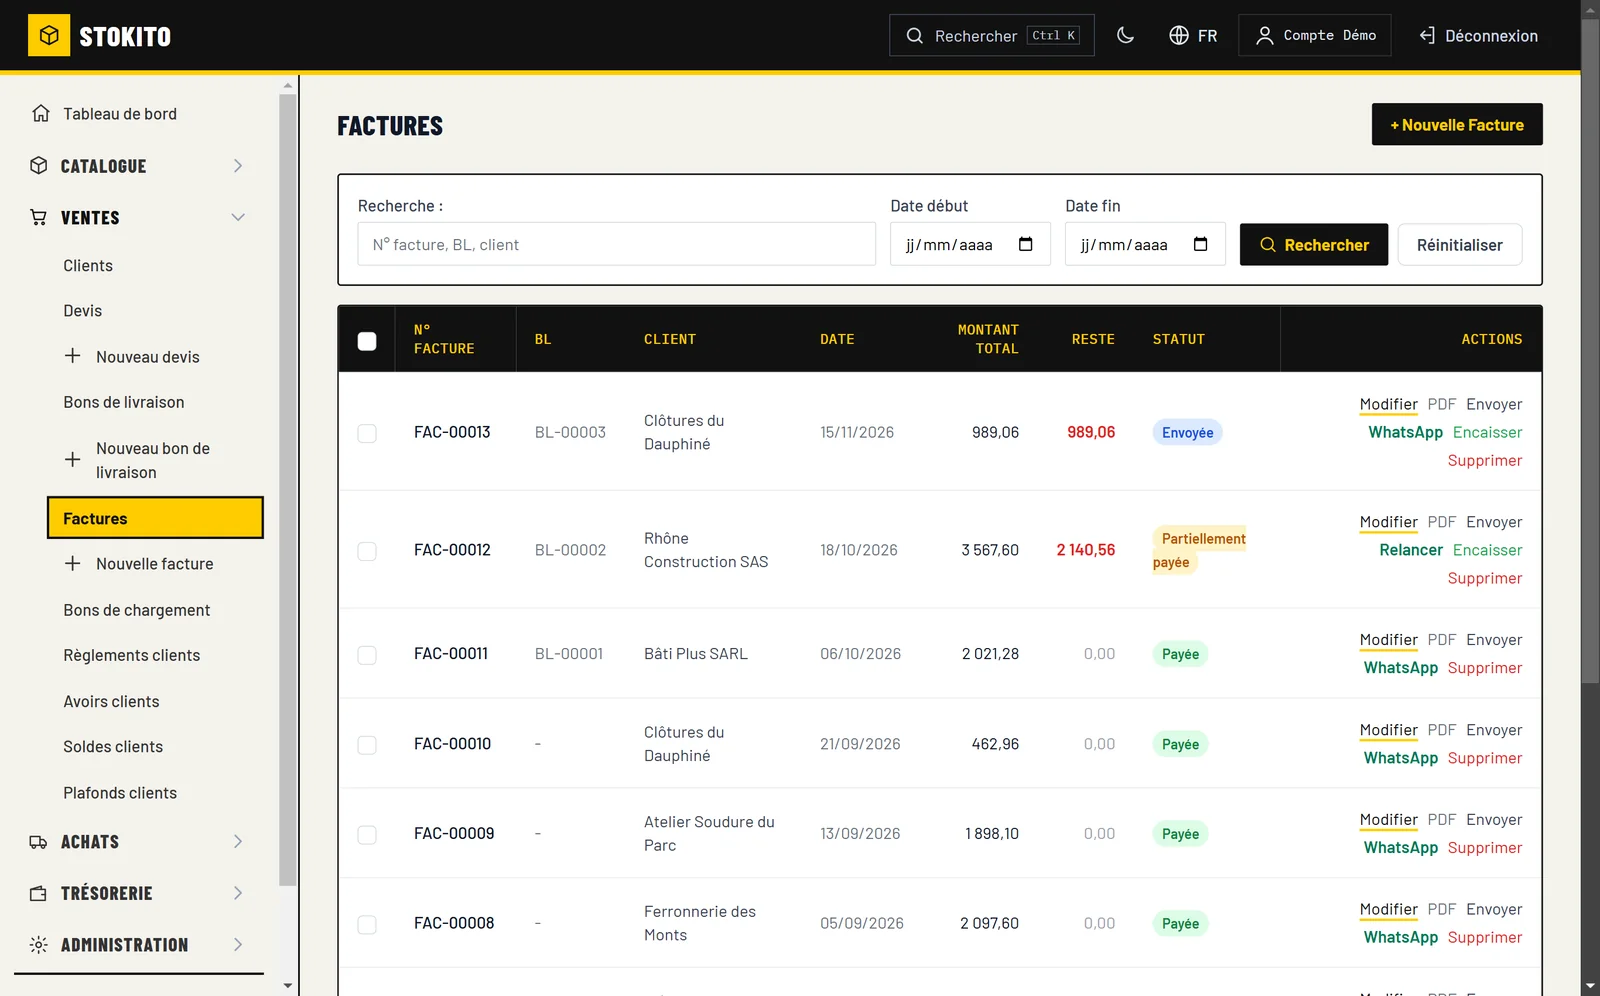
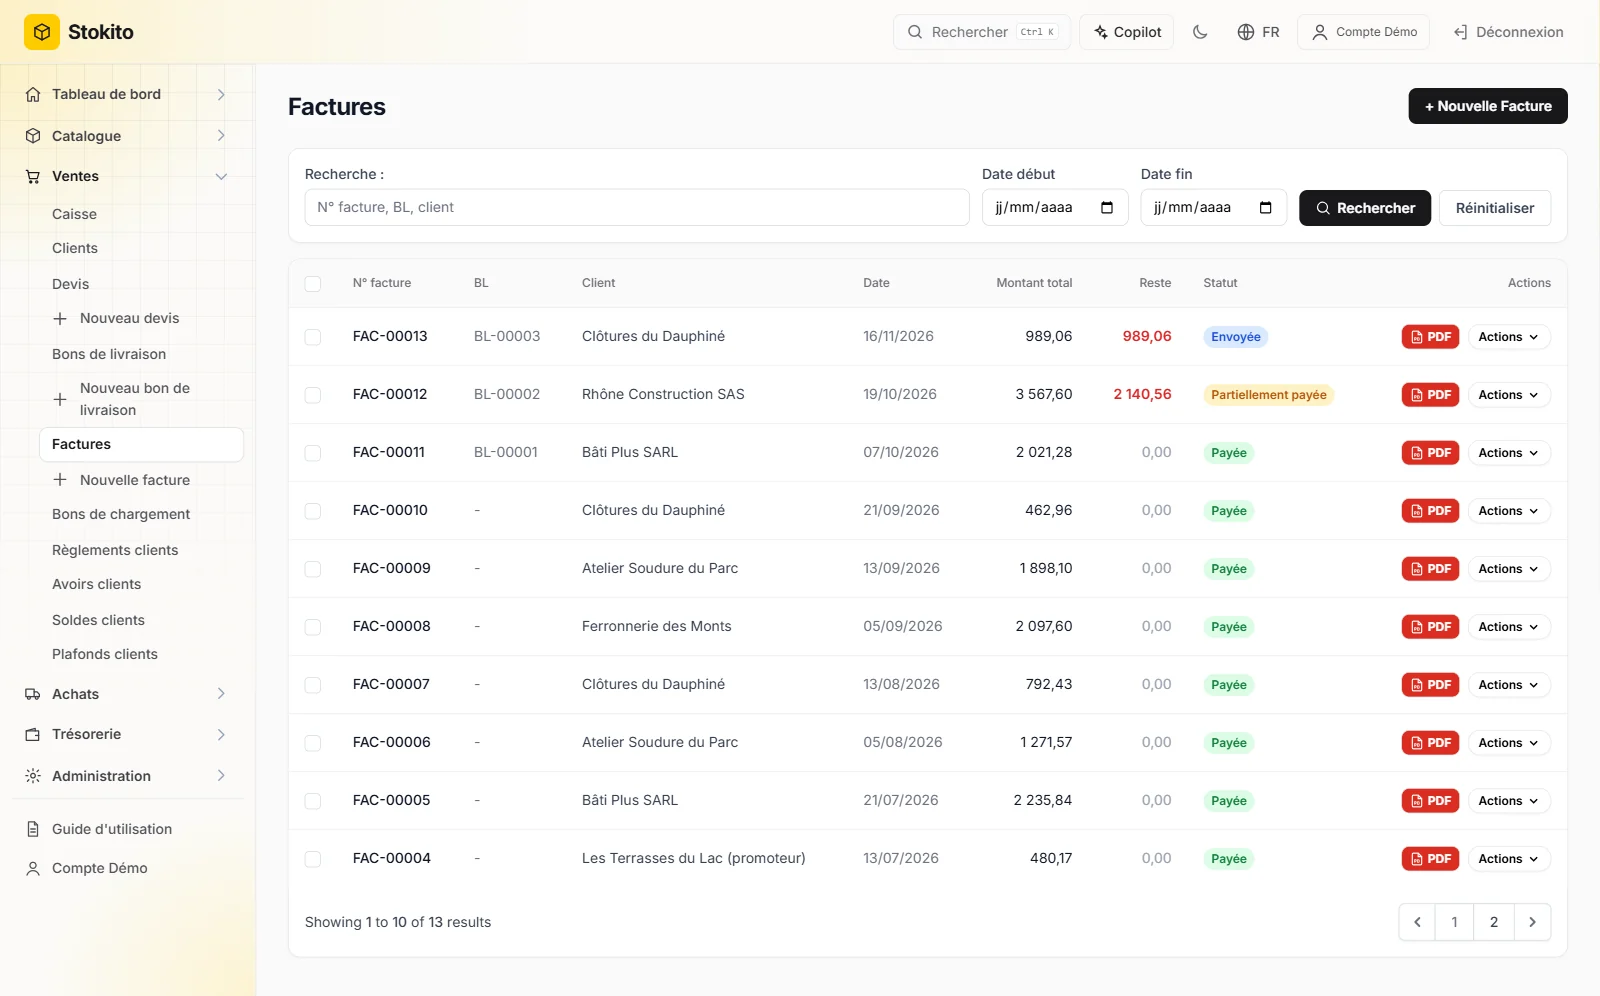
Nouvelles captures du nouveau design (pages SEO + og:image) ; caisse/inscriptions : en-tetes de tableau clairs
Anciennes captures : /root/sp-backups/screens_pre_modern

diff --git a/resources/views/livewire/caisse/clotures.blade.php b/resources/views/livewire/caisse/clotures.blade.php
@@ -34,12 +34,12 @@
 
     <div class="flex mb-3" role="tablist">
         @foreach (['jour' => 'Jours', 'mois' => 'Mois', 'annee' => 'Années'] as $k => $l)
-            <button type="button" wire:click="$set('type', '{{ $k }}')" class="ind-h uppercase tracking-wider px-4 py-1.5 border border-zinc-200 -me-0.5 {{ $type === $k ? 'bg-zinc-900 text-amber-300' : 'bg-white' }} rounded-lg">{{ $l }}</button>
+            <button type="button" wire:click="$set('type', '{{ $k }}')" class="px-4 py-1.5 text-sm font-semibold border border-zinc-200 -me-0.5 {{ $type === $k ? 'bg-zinc-900 text-white border-zinc-900' : 'bg-white text-zinc-700' }} rounded-lg">{{ $l }}</button>
         @endforeach
     </div>
     <div class="border border-zinc-200 bg-white overflow-x-auto rounded-lg">
         <table class="min-w-full text-sm">
-            <thead class="bg-zinc-900 text-white ind-mono text-[11px]">
+            <thead class="bg-zinc-50 text-zinc-500 text-xs font-medium border-b border-zinc-200">
                 <tr><th class="px-3 py-2 text-start">Z N°</th><th class="px-3 py-2 text-start">Période</th><th class="px-3 py-2 text-start">Tickets</th><th class="px-3 py-2 text-end">Total TTC</th><th class="px-3 py-2 text-end">Grand total perpétuel</th><th class="px-3 py-2"></th></tr>
             </thead>
             <tbody class="divide-y divide-[#e3e0d8]">
@@ -52,7 +52,7 @@
                         <td class="px-3 py-2.5 text-end ind-mono">{{ $money($c->cumul_ttc) }}</td>
                         <td class="px-3 py-2.5 text-end whitespace-nowrap"><div class="inline-flex gap-2">
                             <a href="{{ route('caisse.clotures.print', $c->id) }}" target="_blank" class="border border-zinc-200 bg-white px-2 py-1 text-xs font-semibold hover:bg-zinc-100 rounded-lg">Imprimer</a>
-                            <a href="{{ route('caisse.clotures.archive', $c->id) }}" class="bg-zinc-900 text-white px-2 py-1 text-xs font-semibold" title="Archive signée (ZIP) : tickets, lignes, paiements, clôtures et journal de la période">Archive</a>
+                            <a href="{{ route('caisse.clotures.archive', $c->id) }}" class="bg-zinc-900 text-white px-2.5 py-1 text-xs font-semibold rounded-lg" title="Archive signée (ZIP) : tickets, lignes, paiements, clôtures et journal de la période">Archive</a>
                         </div></td>
                     </tr>
                 @empty
@@ -68,7 +68,7 @@
             <div class="ind-mono text-[11px] text-zinc-500">ARCHIVES</div>
             <p class="mt-1 text-sm text-zinc-600">Le bouton <b>Archive</b> d’une clôture télécharge un ZIP signé : tickets, lignes, paiements, clôtures et journal de la période, en CSV, avec l’empreinte de chaque fichier. Gardez les archives mensuelles et annuelles (au moins 6 ans).</p>
             <label class="mt-3 block text-sm font-semibold">Vérifier une archive
-                <input type="file" wire:model="archiveFile" accept=".zip" class="mt-1 block w-full text-sm file:me-3 file:border-2 file:border-[#111] file:bg-white file:px-3 file:py-1.5 file:text-sm file:font-semibold"></label>
+                <input type="file" wire:model="archiveFile" accept=".zip" class="mt-1 block w-full text-sm file:me-3 file:border file:border-zinc-300 file:rounded-lg file:bg-white file:px-3 file:py-1.5 file:text-sm file:font-semibold"></label>
             <div wire:loading wire:target="archiveFile" class="mt-2 text-sm">Vérification…</div>
             @error('archiveFile') <p class="mt-2 text-sm text-[#b42318] font-semibold">{{ $message }}</p> @enderror
             @if ($archiveCheck)

diff --git a/resources/views/livewire/depenses/index.blade.php b/resources/views/livewire/depenses/index.blade.php
@@ -19,15 +19,15 @@
 
     <div class="grid grid-cols-1 sm:grid-cols-3 gap-3 mb-4">
         <div class="bg-white rounded-xl border border-slate-200 p-4">
-            <div class="text-xs font-semibold uppercase text-slate-500">Total TTC</div>
+            <div class="text-xs font-semibold text-slate-500">Total TTC</div>
             <div class="mt-1 text-2xl font-bold text-slate-900">{{ $money($totTtc) }} <span class="text-sm font-medium text-slate-400">{{ $currency }}</span></div>
         </div>
         <div class="bg-white rounded-xl border border-slate-200 p-4">
-            <div class="text-xs font-semibold uppercase text-slate-500">Dont TVA</div>
+            <div class="text-xs font-semibold text-slate-500">Dont TVA</div>
             <div class="mt-1 text-2xl font-bold text-slate-900">{{ $money($totTva) }} <span class="text-sm font-medium text-slate-400">{{ $currency }}</span></div>
         </div>
         <div class="bg-white rounded-xl border border-slate-200 p-4">
-            <div class="text-xs font-semibold uppercase text-slate-500">Par catégorie</div>
+            <div class="text-xs font-semibold text-slate-500">Par catégorie</div>
             <div class="mt-1 space-y-0.5 text-sm">
                 @forelse ($parCategorie->take(4) as $c)
                     <div class="flex justify-between gap-2"><span class="truncate text-slate-600">{{ \App\Models\Depense::CATEGORIES[$c->categorie] ?? $c->categorie }}</span><span class="font-semibold text-slate-900 whitespace-nowrap">{{ $money($c->total) }}</span></div>
@@ -58,12 +58,12 @@
             <table class="min-w-full divide-y divide-slate-100">
                 <thead class="bg-slate-50">
                     <tr>
-                        <th class="px-4 py-3 text-start text-xs font-semibold text-slate-500 uppercase">Date</th>
-                        <th class="px-4 py-3 text-start text-xs font-semibold text-slate-500 uppercase">Libellé</th>
-                        <th class="px-4 py-3 text-start text-xs font-semibold text-slate-500 uppercase">Catégorie</th>
-                        <th class="px-4 py-3 text-start text-xs font-semibold text-slate-500 uppercase">Paiement</th>
-                        <th class="px-4 py-3 text-end text-xs font-semibold text-slate-500 uppercase">TVA</th>
-                        <th class="px-4 py-3 text-end text-xs font-semibold text-slate-500 uppercase">TTC</th>
+                        <th class="px-4 py-3 text-start text-xs font-semibold text-slate-500">Date</th>
+                        <th class="px-4 py-3 text-start text-xs font-semibold text-slate-500">Libellé</th>
+                        <th class="px-4 py-3 text-start text-xs font-semibold text-slate-500">Catégorie</th>
+                        <th class="px-4 py-3 text-start text-xs font-semibold text-slate-500">Paiement</th>
+                        <th class="px-4 py-3 text-end text-xs font-semibold text-slate-500">TVA</th>
+                        <th class="px-4 py-3 text-end text-xs font-semibold text-slate-500">TTC</th>
                         <th class="px-4 py-3"></th>
                     </tr>
                 </thead>

diff --git a/resources/views/livewire/inscriptions/index.blade.php b/resources/views/livewire/inscriptions/index.blade.php
@@ -5,28 +5,28 @@
         $flags = \App\Support\Countries::ALL;
     @endphp
     <div>
-        <p class="ind-mono text-xs text-zinc-500 uppercase">Superadmin</p>
+        <p class="ind-mono text-xs text-zinc-500">Superadmin</p>
         <h1 class="ind-h text-4xl leading-none mt-1">Inscriptions</h1>
     </div>
 
     <div class="grid grid-cols-2 lg:grid-cols-4 gap-3 sm:gap-4">
         <div class="{{ $card }}">
-            <div class="ind-mono text-[11px] uppercase text-zinc-500">Sociétés inscrites</div>
+            <div class="ind-mono text-[11px] text-zinc-500">Sociétés inscrites</div>
             <div class="mt-2 ind-h text-4xl leading-none">{{ (int) $stats->total }}</div>
             <div class="mt-1 text-xs text-slate-500">{{ (int) $stats->self }} en libre-service</div>
         </div>
         <div class="{{ $card }}">
-            <div class="ind-mono text-[11px] uppercase text-zinc-500">Nouvelles</div>
+            <div class="ind-mono text-[11px] text-zinc-500">Nouvelles</div>
             <div class="mt-2 ind-h text-4xl leading-none">{{ (int) $stats->d7 }} <span class="text-sm font-medium text-slate-400">7 j</span></div>
             <div class="mt-1 text-xs text-slate-500">{{ (int) $stats->d30 }} sur 30 jours</div>
         </div>
         <div class="{{ $card }}">
-            <div class="ind-mono text-[11px] uppercase text-zinc-500">Actives</div>
+            <div class="ind-mono text-[11px] text-zinc-500">Actives</div>
             <div class="mt-2 ind-h text-4xl leading-none text-emerald-700">{{ $pct((int) $stats->actifs, (int) $stats->total) }} %</div>
             <div class="mt-1 text-xs text-slate-500">{{ (int) $stats->actifs }} ont fait un devis ou une facture</div>
         </div>
         <div class="{{ $card }}">
-            <div class="ind-mono text-[11px] uppercase text-zinc-500">Pays</div>
+            <div class="ind-mono text-[11px] text-zinc-500">Pays</div>
             <div class="mt-2 flex flex-wrap gap-1.5">
                 @foreach ($pays as $cc => $n)
                     <span class="border border-zinc-200 px-2 py-0.5 text-sm font-semibold rounded-lg">{{ $flags[$cc]['name'] ?? $cc }} · {{ $n }}</span>
@@ -49,7 +49,7 @@
 
     <div class="bg-white border border-zinc-200 overflow-x-auto rounded-lg">
         <table class="min-w-full text-sm">
-            <thead class="bg-zinc-900 text-white text-xs uppercase">
+            <thead class="bg-zinc-50 text-zinc-500 text-xs border-b border-zinc-200">
                 <tr>
                     <th class="text-start px-4 py-3">Société</th>
                     <th class="text-start px-4 py-3">Contact</th>

diff --git a/resources/views/seo/logiciel-devis-facture.blade.php b/resources/views/seo/logiciel-devis-facture.blade.php
@@ -60,7 +60,7 @@
             </div>
             <figure class="border border-amber-300 bg-white shadow-sm rounded-lg">
                 <div class="h-8 flex items-center px-3 border-b border-zinc-200 bg-zinc-50 ind-mono text-[11px] text-zinc-500">stokito.com/devis/create</div>
-                <img src="/images/screens/screen-devis_form.webp?v=20261124" width="1400" height="871" alt="Logiciel devis facture gratuit Stokito : formulaire de devis avec client, produits, quantités, remise et total TTC" class="w-full">
+                <img src="/images/screens/screen-devis_form.webp?v=20261125m" width="1400" height="871" alt="Logiciel devis facture gratuit Stokito : formulaire de devis avec client, produits, quantités, remise et total TTC" class="w-full">
                 <figcaption class="px-3 py-2 border-t border-zinc-200 text-xs text-zinc-600">Création d’un devis dans Stokito (démo, données fictives) : une fois accepté, il devient bon de livraison puis facture.</figcaption>
             </figure>
         </div>
@@ -182,7 +182,7 @@
         </div>
         <p>Votre logo, votre adresse, votre SIREN et vos conditions de paiement se règlent une fois dans « Ma Société » et apparaissent sur chaque PDF. Une même facture peut mélanger <strong>plusieurs taux de TVA</strong> (20 %, 10 %, 5,5 %…) avec une ligne de TVA par taux. Pour une entreprise française, Stokito ajoute aussi les mentions que vous activez : « TVA non applicable, art. 293 B du CGI », pénalités de retard, indemnité forfaitaire de 40 €, escompte, adresse de livraison et nature des opérations. Les avoirs, les clients, le catalogue et l’import Excel sont inclus.</p>
         <figure class="my-8 border border-zinc-200 bg-white shadow-xl shadow-zinc-900/10 rounded-xl">
-            <img src="/images/screens/screen-factures.webp?v=20261124" width="1400" height="871" loading="lazy" alt="Liste des factures dans le logiciel devis facture Stokito : numéro, client, montant TTC, montant payé et statut" class="w-full">
+            <img src="/images/screens/screen-factures.webp?v=20261125m" width="1400" height="871" loading="lazy" alt="Liste des factures dans le logiciel devis facture Stokito : numéro, client, montant TTC, montant payé et statut" class="w-full">
             <figcaption class="px-4 py-2 border-t border-zinc-200 text-sm text-zinc-600">La liste des factures dans Stokito : le statut payé, partiel ou en retard se met à jour avec les règlements (démo, données fictives).</figcaption>
         </figure>
         <h3>Ce que Stokito ne fait pas encore</h3>

diff --git a/resources/views/seo/scanner-facture.blade.php b/resources/views/seo/scanner-facture.blade.php
@@ -61,7 +61,7 @@
             </div>
             <figure class="border border-amber-300 bg-white shadow-sm rounded-lg">
                 <div class="h-8 flex items-center px-3 border-b border-zinc-200 bg-zinc-50 ind-mono text-[11px] text-zinc-500">stokito.com/commande-fournisseurs/create</div>
-                <img src="/images/screens/screen-scanner-facture.webp?v=20261124" width="1400" height="1557" alt="Scanner facture fournisseur dans Stokito : bon de commande rempli automatiquement avec le fournisseur, le numéro de facture, la date et quatre lignes lues sur la photo" class="w-full">
+                <img src="/images/screens/screen-scanner-facture.webp?v=20261125m" width="992" height="1092" alt="Scanner facture fournisseur dans Stokito : bon de commande rempli automatiquement avec le fournisseur, le numéro de facture, la date et quatre lignes lues sur la photo" class="w-full">
                 <figcaption class="px-3 py-2 border-t border-zinc-200 text-xs text-zinc-600">Résultat réel du scanner sur une facture d’exemple (données fictives) : 4 lignes lues, 1 produit reconnu, 1 à vérifier, 2 à créer.</figcaption>
             </figure>
         </div>
@@ -135,7 +135,7 @@
             <li><strong>Introuvable</strong> : le bouton « Créer ce produit » ouvre une fiche déjà remplie avec la désignation, la référence et le prix d’achat lus sur la facture.</li>
         </ul>
         <figure class="my-8 border border-zinc-200 bg-white shadow-xl shadow-zinc-900/10 rounded-xl">
-            <img src="/images/screens/screen-scanner-produit.webp?v=20261124" width="1000" height="943" loading="lazy" alt="Fiche nouveau produit préremplie par le scanner de factures : référence PSF18, désignation Perceuse sans fil 18V, prix d’achat 89 et fournisseur sélectionné" class="w-full">
+            <img src="/images/screens/screen-scanner-produit.webp?v=20261125m" width="696" height="670" loading="lazy" alt="Fiche nouveau produit préremplie par le scanner de factures : référence PSF18, désignation Perceuse sans fil 18V, prix d’achat 89 et fournisseur sélectionné" class="w-full">
             <figcaption class="px-4 py-2 border-t border-zinc-200 text-sm text-zinc-600">« Créer ce produit » : la fiche s’ouvre avec ce qui a été lu sur la facture. Il reste à indiquer le prix de vente (données fictives).</figcaption>
         </figure>
 

diff --git a/resources/views/seo/logiciel-gratuit.blade.php b/resources/views/seo/logiciel-gratuit.blade.php
@@ -59,7 +59,7 @@
             </div>
             <figure class="border border-amber-300 bg-white shadow-sm rounded-lg">
                 <div class="h-8 flex items-center px-3 border-b border-zinc-200 bg-zinc-50 ind-mono text-[11px] text-zinc-500">stokito.com/products</div>
-                <img src="/images/screens/screen-products.webp?v=20261124" width="1400" height="871" alt="Logiciel de gestion de stock gratuit Stokito : liste des produits avec prix d’achat, prix de vente et quantités en stock" class="w-full">
+                <img src="/images/screens/screen-products.webp?v=20261125m" width="1400" height="871" alt="Logiciel de gestion de stock gratuit Stokito : liste des produits avec prix d’achat, prix de vente et quantités en stock" class="w-full">
                 <figcaption class="px-3 py-2 border-t border-zinc-200 text-xs text-zinc-600">Liste des produits dans Stokito (démo, données fictives) : stock coloré selon le seuil d’alerte.</figcaption>
             </figure>
         </div>
@@ -159,7 +159,7 @@
         </div>
         <p>Ce que Stokito ne fait pas encore : ce n’est pas une plateforme de facturation électronique agréée, et la gestion de plusieurs dépôts n’est pas disponible. Les factures sont produites en PDF.</p>
         <figure class="my-8 border border-zinc-200 bg-white shadow-xl shadow-zinc-900/10 rounded-xl">
-            <img src="/images/screens/screen-inventaire.webp?v=20261124" width="1400" height="871" loading="lazy" alt="Écran d’inventaire du logiciel de gestion de stock Stokito : stock système, quantité comptée et écart par produit" class="w-full">
+            <img src="/images/screens/screen-inventaire.webp?v=20261125m" width="1400" height="871" loading="lazy" alt="Écran d’inventaire du logiciel de gestion de stock Stokito : stock système, quantité comptée et écart par produit" class="w-full">
             <figcaption class="px-4 py-2 border-t border-zinc-200 text-sm text-zinc-600">L’inventaire dans Stokito : l’écart apparaît avant de corriger le stock (démo, données fictives).</figcaption>
         </figure>
         <p>Pour voir chaque écran pas à pas, téléchargez le <a href="/docs/guide-stokito-fr.pdf" target="_blank" rel="noopener">guide d’utilisation (PDF)</a>, ou ouvrez la <a href="{{ route('demo.login') }}">démo avec des données fictives</a>.</p>

diff --git a/resources/views/seo/caisse.blade.php b/resources/views/seo/caisse.blade.php
@@ -50,7 +50,7 @@
             </div>
             <figure class="border border-amber-300 bg-white shadow-sm rounded-lg">
                 <div class="h-8 flex items-center px-3 border-b border-zinc-200 bg-zinc-50 ind-mono text-[11px] text-zinc-500">stokito.com/caisse</div>
-                <img src="/images/screens/screen-caisse-pos.webp?v=20261125" width="1400" height="966" alt="Logiciel de caisse gratuit Stokito : produits à toucher ou scanner à gauche, ticket en cours avec total TTC et bouton Encaisser à droite" class="w-full">
+                <img src="/images/screens/screen-caisse-pos.webp?v=20261125m" width="1272" height="800" alt="Logiciel de caisse gratuit Stokito : produits à toucher ou scanner à gauche, ticket en cours avec total TTC et bouton Encaisser à droite" class="w-full">
                 <figcaption class="px-3 py-2 border-t border-zinc-200 text-xs text-zinc-600">L’écran de caisse de Stokito (démo, données fictives).</figcaption>
             </figure>
         </div>
@@ -119,7 +119,7 @@
                 <figcaption class="px-3 py-2 border-t border-zinc-200 text-xs text-zinc-600">Un ticket de caisse (données fictives).</figcaption>
             </figure>
             <figure class="border border-zinc-200 bg-white shadow-xl shadow-zinc-900/10 rounded-xl">
-                <img src="/images/screens/screen-caisse-clotures.webp?v=20261125" width="1400" height="708" loading="lazy" alt="Clôtures de caisse Z dans Stokito : total non clôturé, contrôle d’intégrité, clôtures journalières avec grand total perpétuel et archives" class="w-full">
+                <img src="/images/screens/screen-caisse-clotures.webp?v=20261125m" width="1144" height="872" loading="lazy" alt="Clôtures de caisse Z dans Stokito : total non clôturé, contrôle d’intégrité, clôtures journalières avec grand total perpétuel et archives" class="w-full">
                 <figcaption class="px-3 py-2 border-t border-zinc-200 text-xs text-zinc-600">Les clôtures Z et les archives (données fictives).</figcaption>
             </figure>
         </div>

diff --git a/resources/views/livewire/caisse/pos.blade.php b/resources/views/livewire/caisse/pos.blade.php
@@ -59,7 +59,7 @@
 
         {{-- ticket --}}
         <div id="ticket" class="scroll-mt-20 lg:sticky lg:top-4 border border-zinc-200 bg-white shadow-lg shadow-zinc-900/5 rounded-xl">
-            <div class="bg-zinc-900 text-white px-4 py-2 flex items-center justify-between">
+            <div class="bg-zinc-50 text-zinc-900 border-b border-zinc-200 px-4 py-2 flex items-center justify-between">
                 <span class="ind-h text-lg">Ticket en cours</span>
                 <span class="ind-mono text-[11px] text-[#bbb]">{{ count($cart) }} ligne(s)</span>
             </div>
@@ -125,7 +125,7 @@
         <div class="fixed inset-0 z-50 bg-black/50 flex items-end sm:items-center justify-center p-0 sm:p-4" wire:click.self="$set('payOpen', false)">
             <div class="w-full sm:max-w-md bg-white border border-zinc-200 shadow-xl shadow-zinc-900/10 max-h-[95vh] overflow-y-auto rounded-xl">
                 <div class="bg-zinc-900 text-white px-4 py-3 flex justify-between items-end">
-                    <span class="ind-h text-lg text-amber-300">Paiement</span>
+                    <span class="ind-h text-lg text-white">Paiement</span>
                     <span class="ind-h text-3xl leading-none">{{ $money($t['total_ttc']) }} <span class="text-sm text-[#bbb]">{{ $currency }}</span></span>
                 </div>
                 <div class="p-4 space-y-3">

diff --git a/resources/views/layouts/public.blade.php b/resources/views/layouts/public.blade.php
@@ -16,7 +16,7 @@
         <link rel="canonical" href="{{ $canonical ?? url()->current() }}">
 
         <meta property="og:site_name" content="Stokito">
-        <meta property="og:image" content="{{ $ogImage ?? 'https://stokito.com/images/screens/screen-dashboard.webp?v=20261124' }}">
+        <meta property="og:image" content="{{ $ogImage ?? 'https://stokito.com/images/screens/screen-dashboard.webp?v=20261125m' }}">
         <meta property="og:title" content="{{ $title ?? 'Stokito' }}">
         <meta property="og:description" content="{{ $description ?? 'Logiciel de gestion de stock, ventes et achats pour les PME.' }}">
         <meta property="og:type" content="{{ $ogType ?? 'website' }}">

diff --git a/resources/views/livewire/caisse/tickets.blade.php b/resources/views/livewire/caisse/tickets.blade.php
@@ -21,7 +21,7 @@
 
     <div class="border border-zinc-200 bg-white overflow-x-auto rounded-lg">
         <table class="min-w-full text-sm">
-            <thead class="bg-zinc-900 text-white ind-mono text-[11px]">
+            <thead class="bg-zinc-50 text-zinc-500 text-xs font-medium border-b border-zinc-200">
                 <tr><th class="px-3 py-2 text-start">N°</th><th class="px-3 py-2 text-start">Heure</th><th class="px-3 py-2 text-start">Client</th><th class="px-3 py-2 text-start">Paiement</th><th class="px-3 py-2 text-end">Total TTC</th><th class="px-3 py-2"></th></tr>
             </thead>
             <tbody class="divide-y divide-[#e3e0d8]">

diff --git a/resources/views/welcome.blade.php b/resources/views/welcome.blade.php
@@ -34,7 +34,7 @@
     <meta name="google-site-verification" content="XEy0-r-vrdATmXb-MhIP0hg5zhoY9-tW4Q5uWn-H0zY" />
     <meta property="og:title" content="Stokito">
     <meta property="og:description" content="{{ __('Gestion de stock, devis, bons de livraison et factures pour les PME. Gratuit, sans installation.') }}">
-    <meta property="og:image" content="https://stokito.com/images/screens/screen-dashboard.webp?v=20261124">
+    <meta property="og:image" content="https://stokito.com/images/screens/screen-dashboard.webp?v=20261125m">
     <script type="application/ld+json">
     {!! json_encode([
         '@context' => 'https://schema.org',
